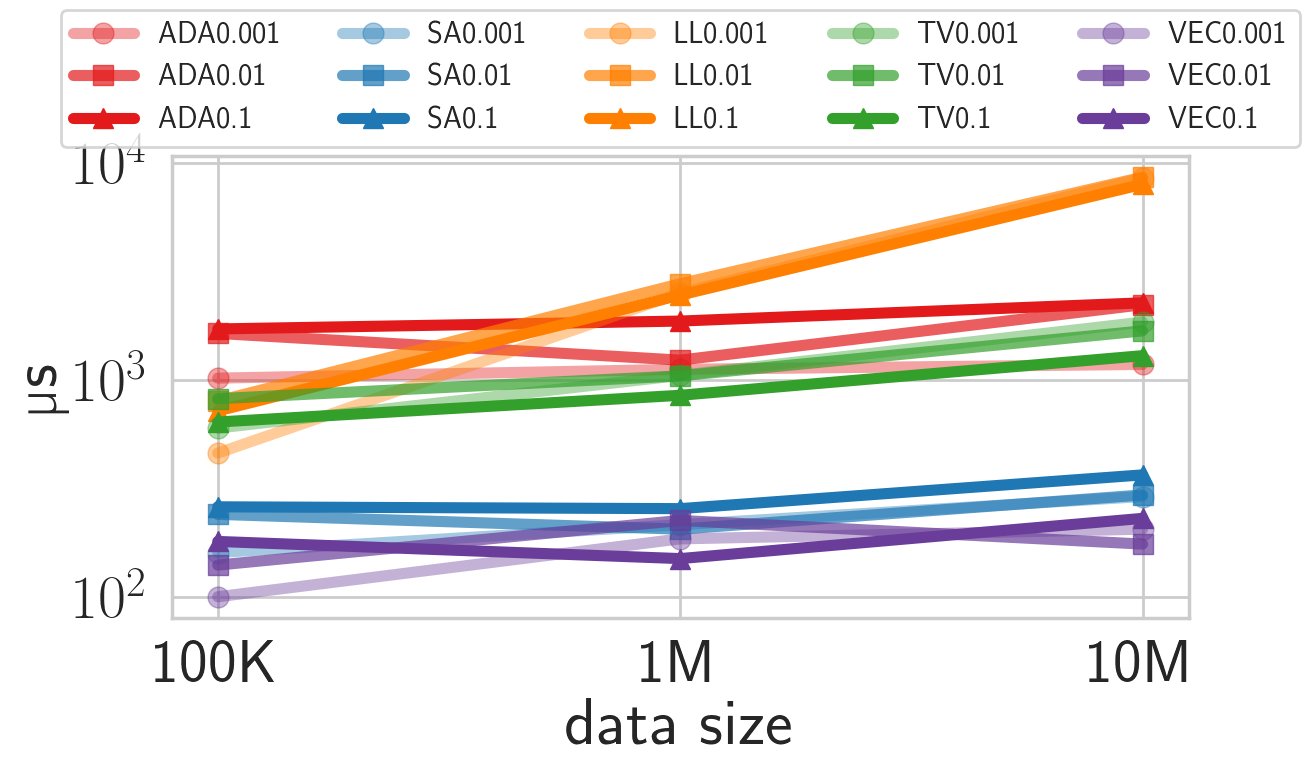
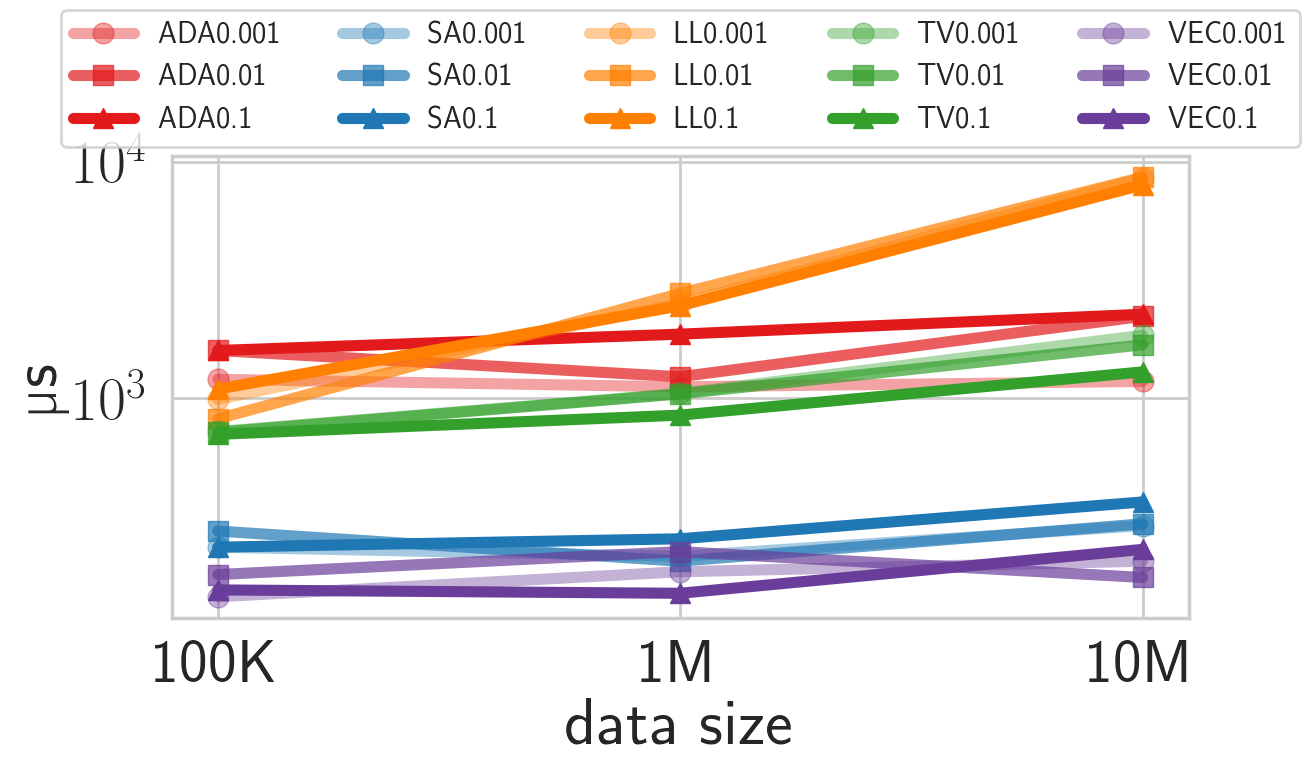
new swap ranges

diff --git a/Experiments/Baseline_1_20220109/10Mrepeat20/swap/swap.cpp b/Experiments/Baseline_1_20220109/10Mrepeat20/swap/swap.cpp
@@ -309,7 +309,7 @@ int main(int argc, char** argv) {
             finstant << fl << ",";
 
             int pos = RandomInt(1, NowTotalNum);
-            int start1 = 30000, end1 = 100000, start2 = 450000, end2 = 820000;
+            int start1 = 3000, end1 = 10000, start2 = 45000, end2 = 82000;
 
             time1 = timeNow();
             SASwap(standard_array, start1, end1, start2, end2, NowTotalNum);

diff --git a/Experiments/Baseline_1_20220109/1Mrepeat20/swap/swap.cpp b/Experiments/Baseline_1_20220109/1Mrepeat20/swap/swap.cpp
@@ -311,7 +311,7 @@ int main(int argc, char** argv) {
             finstant << fl << ",";
 
             int pos = RandomInt(1, NowTotalNum);
-            int start1 = 30000, end1 = 100000, start2 = 450000, end2 = 820000;
+            int start1 = 3000, end1 = 10000, start2 = 45000, end2 = 82000;
 
             time1 = timeNow();
             SASwap(standard_array, start1, end1, start2, end2, NowTotalNum);
